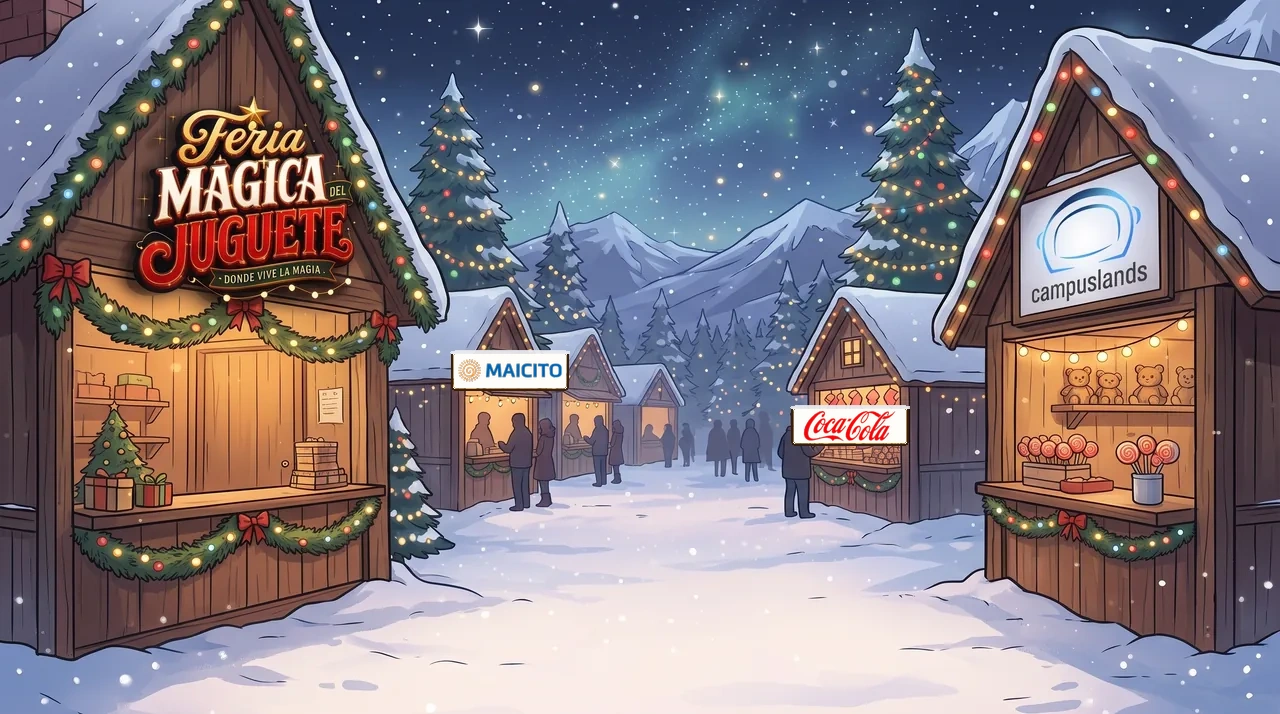
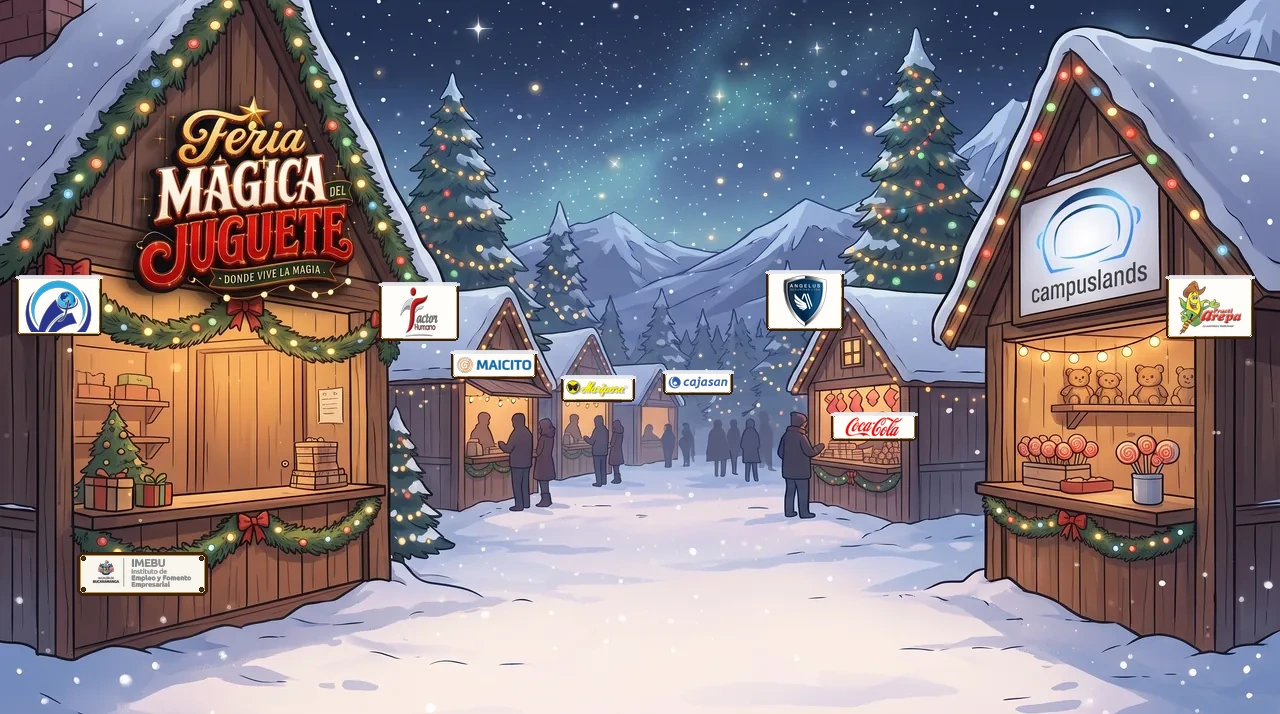
feat(branding): add all official sponsor signs to horizontal fondo & integrate dynamic sponsor power-ups in SantaSki and SantaHills

diff --git a/minijuegos/src/games/SantaSkiGame.ts b/minijuegos/src/games/SantaSkiGame.ts
@@ -224,6 +224,7 @@ export class SantaSkiGame extends BaseGame {
 
   private sponsors: SponsorInfo[] = [];
   private nextBillboardIdx = 0;
+  private nextStarSponsorIdx = 0;
   public onOpenTutorial?: () => void;
 
   constructor(
@@ -684,7 +685,7 @@ export class SantaSkiGame extends BaseGame {
               collected: false
             });
           }
-        } else if (roll < 0.94) {
+        } else if (roll < 0.88) {
           // Regalo satinado para acumular puntos
           this.entities.push({
             id: this.nextEntityId++,
@@ -697,7 +698,8 @@ export class SantaSkiGame extends BaseGame {
             giftIdx: Math.floor(Math.random() * this.giftImgs.length)
           });
         } else {
-          // Estrella dorada de patrocinador (Super Turbo e invulnerabilidad)
+          // Estrella / Medallón flotante de patrocinador oficial (Super Turbo e invulnerabilidad)
+          const starSponsorIdx = (this.nextStarSponsorIdx++) % this.sponsors.length;
           this.entities.push({
             id: this.nextEntityId++,
             x: spawnX,
@@ -705,7 +707,8 @@ export class SantaSkiGame extends BaseGame {
             w: 72,
             h: 72,
             kind: "star",
-            collected: false
+            collected: false,
+            sponsorIdx: starSponsorIdx
           });
         }
       }
@@ -1227,9 +1230,9 @@ export class SantaSkiGame extends BaseGame {
           this.addScore(250 * multiplier);
           this.audio.playPowerUp();
           this.particles.emitConfetti(w, 32);
-          const sponsor = this.sponsors[Math.floor(Math.random() * this.sponsors.length)];
-          this.triggerLogoPowerUp(sponsor.id, 6);
-          this.addFloatingText("¡SUPER TURBO DORADO!", w / 2, h * 0.25, "#FFD700", 1.4);
+          const sp = this.sponsors[(ent.sponsorIdx ?? 0) % this.sponsors.length] || this.sponsors[0];
+          this.triggerLogoPowerUp(sp.id, 6);
+          this.addFloatingText(`¡BONUS ${sp.name.toUpperCase()}! TURBO x2`, w / 2, h * 0.25, sp.color || "#FFD700", 1.45);
         }
       } else {
         // Obstáculos sólidos (árboles, muñecos de nieve, carteles de madera, cristales, troncos, chalets)
@@ -1606,14 +1609,54 @@ export class SantaSkiGame extends BaseGame {
           drawFitted(ctx, gImg, sx, sy, ent.w, ent.h);
         }
       } else if (ent.kind === "star") {
-        if (imgReady(this.starImg)) {
-          const pulse = 1 + Math.sin(t * 8) * 0.12;
-          ctx.save();
-          ctx.translate(sx + ent.w / 2, sy + ent.h / 2);
-          ctx.scale(pulse, pulse);
-          drawFitted(ctx, this.starImg, -ent.w / 2, -ent.h / 2, ent.w, ent.h);
-          ctx.restore();
+        const sp = this.sponsors[(ent.sponsorIdx ?? 0) % this.sponsors.length] || this.sponsors[0];
+        const pulse = 1 + Math.sin(t * 8) * 0.12;
+        const cx = sx + ent.w / 2;
+        const cy = sy + ent.h / 2;
+        const r = (ent.w / 2) * pulse;
+
+        ctx.save();
+        // Halo temático resplandeciente del patrocinador
+        const haloGrad = ctx.createRadialGradient(cx, cy, r * 0.25, cx, cy, r * 1.35);
+        haloGrad.addColorStop(0, (sp.color || "#FFD700") + "99");
+        haloGrad.addColorStop(0.55, (sp.color || "#FFD700") + "35");
+        haloGrad.addColorStop(1, "rgba(0, 0, 0, 0)");
+        ctx.fillStyle = haloGrad;
+        ctx.beginPath();
+        ctx.arc(cx, cy, r * 1.35, 0, Math.PI * 2);
+        ctx.fill();
+
+        // Medallón circular blanco reflectante
+        ctx.fillStyle = "#FFFFFF";
+        ctx.beginPath();
+        ctx.arc(cx, cy, r * 0.72, 0, Math.PI * 2);
+        ctx.fill();
+        ctx.strokeStyle = sp.color || "#FFD700";
+        ctx.lineWidth = 3;
+        ctx.stroke();
+
+        // Logo oficial del patrocinador centrado
+        if (sp && imgReady(sp.logo)) {
+          const logoAspect = sp.logo.naturalWidth / (sp.logo.naturalHeight || 1);
+          let lw = r * 1.15;
+          let lh = lw / logoAspect;
+          if (lh > r * 1.05) {
+            lh = r * 1.05;
+            lw = lh * logoAspect;
+          }
+          ctx.drawImage(sp.logo, cx - lw / 2, cy - lh / 2, lw, lh);
+        } else if (imgReady(this.starImg)) {
+          drawFitted(ctx, this.starImg, cx - r * 0.7, cy - r * 0.7, r * 1.4, r * 1.4);
         }
+
+        // Anillo de brillo dorado exterior
+        const rot = t * 2.5;
+        ctx.strokeStyle = "rgba(255, 215, 0, 0.85)";
+        ctx.lineWidth = 2;
+        ctx.beginPath();
+        ctx.arc(cx, cy, r * 0.88, rot, rot + Math.PI * 1.3);
+        ctx.stroke();
+        ctx.restore();
       }
     }
 

diff --git a/minijuegos/src/games/SantaHillsGame.ts b/minijuegos/src/games/SantaHillsGame.ts
@@ -54,6 +54,7 @@ interface ScenicProp {
   kind: "tree" | "house" | "banner";
   scale: number;
   variant: number;
+  sponsorKey?: string;
 }
 
 interface DistantProp {
@@ -161,7 +162,7 @@ export class SantaHillsGame extends BaseGame {
   private segmentsSinceFlat: number = 0;
   private lastKind: SegmentKind = "flat";
   private occupied: Array<[number, number]> = [];
-  private nextLogoX: number = 2600;
+  private nextLogoX: number = 800;
   private flatCounter: number = 0;
 
   // Entidades
@@ -288,7 +289,7 @@ export class SantaHillsGame extends BaseGame {
     this.genY = Y_START;
     this.segmentsSinceFlat = 0;
     this.lastKind = "flat";
-    this.nextLogoX = 2600;
+    this.nextLogoX = 800;
     this.flatCounter = 0;
     this.occupied.push([-600, 700]);
     this.addScenic(380, "tree", 1.0);
@@ -663,21 +664,24 @@ export class SantaHillsGame extends BaseGame {
         const sponsor = BRANDING.getRandomSponsor();
         this.addCollectible(x, this.terrainY(x) - 135, "logo_sponsor", sponsor.id);
         this.reserve(x - 70, x + 70);
-        this.nextLogoX = x + rand(3600, 4800);
+        this.nextLogoX = x + rand(1100, 1800);
         return;
       }
     }
   }
 
-  private addScenic(x: number, kind: ScenicProp["kind"], scale: number): void {
-    this.scenic.push({ worldX: x, kind, scale, variant: Math.floor(x / 97) % 2 });
+  private addScenic(x: number, kind: ScenicProp["kind"], scale: number, sponsorKey?: string): void {
+    this.scenic.push({ worldX: x, kind, scale, variant: Math.floor(x / 97) % 2, sponsorKey });
   }
 
   private decorateSegment(a: number, b: number): void {
-    // Vallas oficiales en algunos llanos
+    // Vallas oficiales de patrocinadores en llanos
     if (this.lastKind === "flat" && this.flatCounter % 2 === 0) {
       const bx = b - 110;
-      if (this.isFree(bx - 90, bx + 90)) this.addScenic(bx, "banner", 1);
+      if (this.isFree(bx - 90, bx + 90)) {
+        const sp = BRANDING.getRandomSponsor();
+        this.addScenic(bx, "banner", 1, sp.id);
+      }
     }
 
     // Árboles y casas en espacios libres con pendiente suave
@@ -1326,9 +1330,37 @@ export class SantaHillsGame extends BaseGame {
         w = 150 * p.scale;
         sink = 14;
       } else {
-        img = p.variant === 0 ? this.imgSignFeria : this.imgSignSponsor;
-        w = 135;
+        w = 138;
         sink = 12;
+        const spKey = p.sponsorKey || "feria";
+        const sp = BRANDING.getLogoConfig(spKey);
+        const spLogo = this.getSponsorImage(sp.id) || this.imgMedallonFeria;
+
+        img = this.imgSignSponsor && this.imgSignSponsor.complete && this.imgSignSponsor.naturalWidth
+          ? this.imgSignSponsor
+          : this.imgSignFeria;
+
+        if (img && img.complete && img.naturalWidth) {
+          const h = w * (img.naturalHeight / img.naturalWidth);
+          ctx.drawImage(img, x - w / 2, gy - h + sink, w, h);
+          if (spLogo && spLogo.complete && spLogo.naturalWidth) {
+            const aspect = spLogo.naturalWidth / (spLogo.naturalHeight || 1);
+            let lw = w * 0.58;
+            let lh = lw / aspect;
+            if (lh > h * 0.44) {
+              lh = h * 0.44;
+              lw = lh * aspect;
+            }
+            // Fondo blanco nítido y logo de patrocinador centrado en la valla
+            ctx.fillStyle = "#FFFFFF";
+            ctx.beginPath();
+            ctx.roundRect(x - lw / 2 - 3, gy - h + sink + h * 0.18 - lh / 2 - 2, lw + 6, lh + 4, 3);
+            ctx.fill();
+            ctx.drawImage(spLogo, x - lw / 2, gy - h + sink + h * 0.18 - lh / 2, lw, lh);
+          }
+        }
+        this.drawSnowMound(ctx, x, p.worldX, w * 0.42, 16);
+        continue;
       }
       if (!img.complete || !img.naturalWidth) continue;
       const h = w * (img.naturalHeight / img.naturalWidth);
